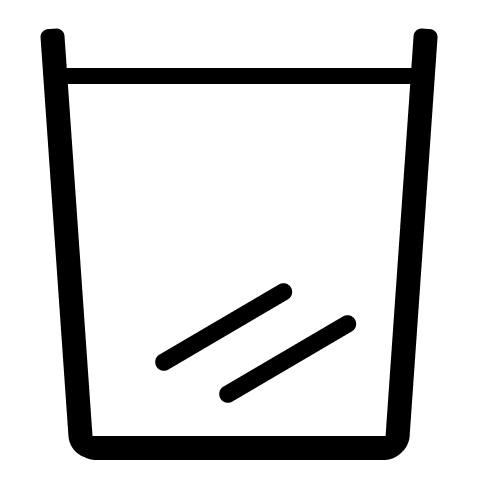
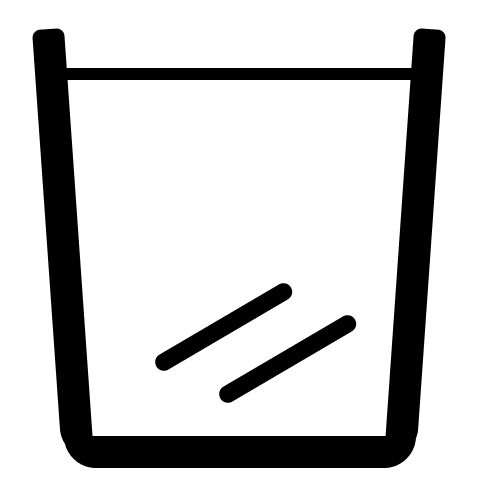
added water glass with dynamic fill

Changed region(s): [[0.0625, 0.0625, 0.9375, 1.0], [0.125, 0.1562, 0.875, 0.1875]]

diff --git a/lib/Views/home.dart b/lib/Views/home.dart
@@ -6,13 +6,13 @@ import 'package:flutter/services.dart';
 import 'package:shake/shake.dart';
 import '../Persistence/Database.dart';
 import '../Widgets/HistoryListElement.dart';
-import '../icons/my_flutter_app_icons.dart';
 import '../Models/SettingsModel.dart';
 import '../Models/Water.dart';
 import '../Utils/utils.dart';
 import 'package:provider/provider.dart';
 import '../Models/WaterModel.dart';
-import '../Utils/utils.dart';
+
+import 'package:rive/rive.dart';
 
 typedef void DeleteCallback(int index);
 
@@ -39,6 +39,10 @@ class _HomeState extends State<Home> {
 
   StreamSubscription _buttonEventStream;
 
+  Artboard _riveArtboard;
+  RiveAnimationController _controller;
+  SimpleAnimation _animation = SimpleAnimation('100%');
+
   @override
   void initState() {
     super.initState();
@@ -58,6 +62,42 @@ class _HomeState extends State<Home> {
           0,
           1);
     });
+
+    // Load the animation file from the bundle, note that you could also
+    // download this. The RiveFile just expects a list of bytes.
+    rootBundle.load('assets/animations/water-glass.riv').then(
+      (data) async {
+        // Load the RiveFile from the binary data.
+        final file = RiveFile.import(data);
+        // The artboard is the root of the animation and gets drawn in the
+        // Rive widget.
+        final artboard = file.mainArtboard;
+        // Add a controller to play back a known animation on the main/default
+        // artboard.We store a reference to it so we can toggle playback.
+        artboard.addController(_controller = _animation);
+        setState(() => {
+          _riveArtboard = artboard,
+          this._controller.isActive = false,
+        });
+        _updateWaterGlass();
+      },
+    );
+
+  }
+
+  void _updateWaterGlass() {
+    print('lets go controller: $_controller');
+    if (_controller != null) {
+      setState(() {
+        //_controller.isActive = true;
+       double currentWater = _totalWaterAmount / Provider.of<SettingsModel>(context, listen: false).dailyGoal;
+       _animation.instance.reset();
+       _animation.instance.advance(currentWater);
+       _controller.apply(_riveArtboard, currentWater);
+       print('lets go');
+      });
+
+    }
   }
 
   _loadData() async {
@@ -138,6 +178,7 @@ class _HomeState extends State<Home> {
     if (this._history.isEmpty) {
       this._loadData();
     }
+    _updateWaterGlass();
     this._showUndoSnackBar(index, water);
   }
 
@@ -212,14 +253,10 @@ class _HomeState extends State<Home> {
               'Stay Hydrated',
               style: Theme.of(context).textTheme.headline1,
             ),
-            Text(
-              'Water today:',
-              style: Theme.of(context).textTheme.headline4,
-            ),
             SizedBox(
-              height: 170,
+              height: 227,
               child: Row(
-                mainAxisAlignment: MainAxisAlignment.spaceBetween,
+                mainAxisAlignment: MainAxisAlignment.spaceEvenly,
                 children: [
                   Column(
                     mainAxisAlignment: MainAxisAlignment.center,
@@ -244,6 +281,14 @@ class _HomeState extends State<Home> {
                   Column(
                     mainAxisAlignment: MainAxisAlignment.center,
                     children: [
+                      
+                      Container(
+                        height: 180,
+                        width: 180,
+                        child: _riveArtboard == null
+                            ? const SizedBox(height: 20, width: 20)
+                            : Rive(artboard: _riveArtboard),
+                      ),
                       Text(
                         '${_formatDailyTotalWaterAmount(_totalWaterAmount)} $_unit',
                         style: Theme.of(context).textTheme.headline2,
@@ -264,12 +309,6 @@ class _HomeState extends State<Home> {
                     ],
                   )
                 ],
-              ),
-            ),
-            ListTile(
-              title: Text(
-                'History',
-                style: Theme.of(context).textTheme.headline4,
               ),
             ),
             Expanded(
@@ -304,6 +343,7 @@ class _HomeState extends State<Home> {
                       .cupSize),
               0,
               1);
+          _updateWaterGlass();
         },
         tooltip: 'Increment',
         child: Icon(Icons.add),

diff --git a/lib/main.dart b/lib/main.dart
@@ -17,8 +17,6 @@ import 'Models/WaterModel.dart';
 
 SharedPreferences prefs;
 
-// Praeferenzen festlegen
-
 void main() async {
   WidgetsFlutterBinding.ensureInitialized();
   await EasyLocalization.ensureInitialized();
